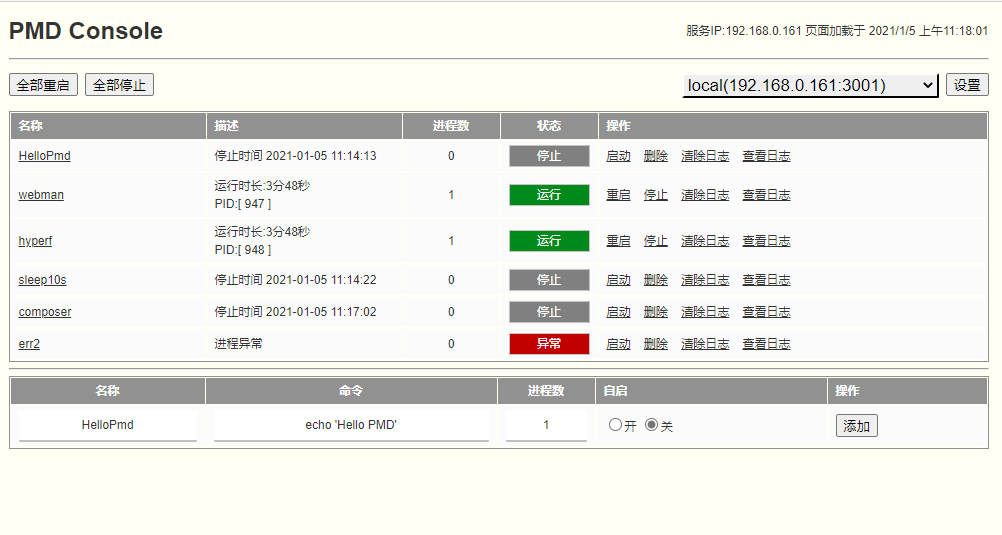
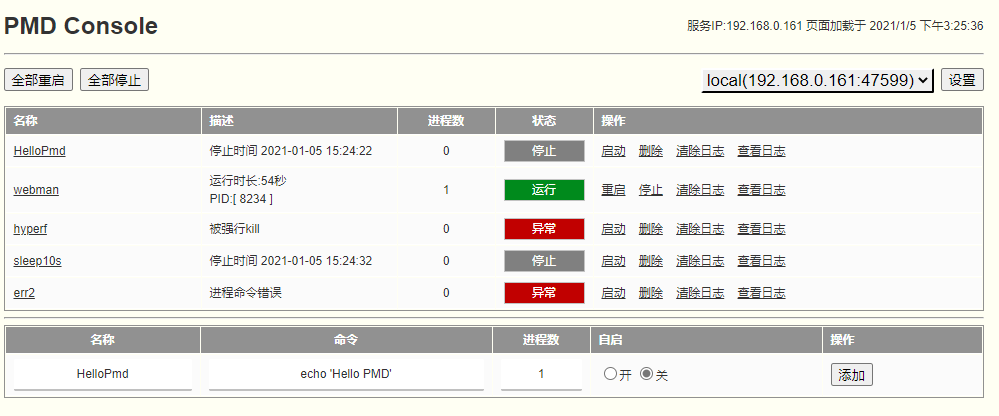
v0.0.1

diff --git a/src/Http/view/index.html b/src/Http/view/index.html
@@ -63,7 +63,7 @@
                 <td><a href="javascript:void(0);" v-bind:title="process.cmd">{{name}}</a></td>
                 <td>
                     <span v-if="process.pids.length > 0" v-bind:title="process.pids">运行时长:{{timeToString(process.runtime)}}<br/>PID:{{process.pids}}</span>
-                    <span v-else-if="process.pids.length === 0 && process.error_msg !== ''">{{process.error_msg}}</span>
+                    <span v-else-if="process.pids.length === 0 && process.error_msg != ''">{{process.error_msg}}</span>
                     <span v-else-if="process.pids.length === 0 && process.stop_time !== 0">停止时间 {{timestampToString(process.stop_time)}}</span>
                     <span v-else="process.pids.length === 0 && !process.stop_time">未曾运行</span>
                 </td>

diff --git a/src/Process/Process.php b/src/Process/Process.php
@@ -77,21 +77,23 @@ class Process extends AbstractProcess
                 $fileLogger->error($data);
             });
             $worker->on('exit', function ($exitCode) use ($fileLogger, $name, $pid) {
-                if ($exitCode == 0) {
+                if ($exitCode === 0) {
                     $fileLogger->info("{$name}[{$pid}] exitCode:{$exitCode}");
                     \logger()->info("{$name}[{$pid}] exitCode:{$exitCode}");
+                } elseif ($exitCode == '' || $exitCode == 137) {
+                    $fileLogger->info("{$name} kill exitCode:{$exitCode}");
+                    \logger()->info("{$name} kill exitCode:{$exitCode}");
+                    $this->process[$name]['error_msg'] = "被外界终止";
+                } elseif ($exitCode == 127) {
+                    $fileLogger->info("{$name} not running exitCode:{$exitCode}");
+                    \logger()->info("{$name} not running exitCode:{$exitCode}");
+                    $this->process[$name]['error_msg'] = "进程命令错误";
                 } else {
                     $fileLogger->error("{$name}[{$pid}] exitCode:{$exitCode}");
                     \logger()->error("{$name}[{$pid}] exitCode:{$exitCode}");
-                    $this->process[$name]['error_msg'] = "进程异常";
+                    $this->process[$name]['error_msg'] = "进程异常 exit code:{$exitCode}";
                 }
-                unset($this->allProcess[$pid]);
-                foreach ($this->process[$name]['pids'] as $index => $item) {
-                    if ($item == $pid) {
-                        unset($this->process[$name]['pids'][$index]);
-                        break;
-                    }
-                }
+                $this->unsetProcess($pid);
                 if (count($this->process[$name]['pids']) == 0) {
                     $this->process[$name]['pids'] = [];
                     $this->process[$name]['runtime'] = 0;
@@ -155,19 +157,27 @@ class Process extends AbstractProcess
         if (isset($this->process[$name])) {
             try {
                 if (isset($this->process[$name]['pids']) && count($this->process[$name]['pids']) > 0) {
-                    foreach ($this->process[$name]['pids'] as $pid) {
-                        /**
-                         * @var \React\ChildProcess\Process $process
-                         */
-                        $process = $this->allProcess[$pid];
-                        \loop()->addPeriodicTimer(0.5, function ($timer) use ($process) {
+                    $start_time = time();
+                    \loop()->addPeriodicTimer(0.3, function ($timer) use ($name, $start_time) {
+                        foreach ($this->process[$name]['pids'] as $index => $pid) {
+                            /**
+                             * @var \React\ChildProcess\Process $process
+                             */
+                            $process = $this->allProcess[$pid];
                             if ($process->isRunning()) {
-                                $process->terminate(SIGINT);
+                                if (time() - $start_time >= 1) {
+                                    $process->terminate(SIGTERM);
+                                } elseif (time() - $start_time >= 2) {
+                                    $process->terminate(SIGKILL);
+                                } else {
+                                    $process->terminate(SIGINT);
+                                }
                             } else {
-                                if ($process->isTerminated()) \loop()->cancelTimer($timer);
+                                $this->unsetProcess($pid);
+                                \loop()->cancelTimer($timer);
                             }
-                        });
-                    }
+                        }
+                    });
                 }
                 return ['code' => 0, 'msg' => '停止命令发送成功'];
             } catch (\Throwable $throwable) {

diff --git a/src/Pmd.php b/src/Pmd.php
@@ -11,6 +11,7 @@ use PhpPmd\Pmd\Http\Template;
 use PhpPmd\Pmd\Http\HttpServer;
 use PhpPmd\Pmd\Log\Logger;
 use PhpPmd\Pmd\Socket\SocketServer;
+use React\ChildProcess\Process;
 use React\EventLoop\Factory;
 
 /**
@@ -226,16 +227,27 @@ class Pmd
             case \SIGTERM:
             case \SIGHUP:
                 $allProcess = \socket()->getProcess()->getAllProcess();
-                foreach ($allProcess as $pid => $process) {
-                    \loop()->addPeriodicTimer(0.1, function ($timer) use ($process) {
+                $start_time = time();
+                \loop()->addPeriodicTimer(0.3, function ($timer) use ($allProcess, $start_time) {
+                    /**
+                     * @var Process $process
+                     */
+                    foreach ($allProcess as $pid => $process) {
                         if ($process->isRunning()) {
-                            $process->terminate(SIGINT);
+                            if (time() - $start_time >= 1) {
+                                $process->terminate(SIGTERM);
+                            } elseif (time() - $start_time >= 2) {
+                                $process->terminate(SIGKILL);
+                            } else {
+                                $process->terminate(SIGINT);
+                            }
                         } else {
-                            if ($process->isTerminated()) \loop()->cancelTimer($timer);
+                            \socket()->getProcess()->unsetProcess($pid);
+                            \loop()->cancelTimer($timer);
                         }
-                    });
-                }
-                \loop()->addPeriodicTimer(0.1, function ($timer) {
+                    }
+                });
+                \loop()->addPeriodicTimer(0.3, function ($timer) {
                     if (count(\socket()->getProcess()->getAllProcess()) == 0) {
                         \loop()->cancelTimer($timer);
                         \logger()->info("PMD stop success[<g>OK</g>].");
@@ -275,12 +287,11 @@ class Pmd
     {
         static::injection('socket', function () {
             $config = \configFile()->getContent();
-            if (isset($config['socket']['port'])) {
-                $socket_port = $config['socket']['port'];
-            } else {
-                $ip = static::$local_ip;
-                $socket_port = $config['http']['port'] ?? 2021;
-                $socket_port += 1;
+            $socket_port = $config['socket']['port'] ?? 0;
+            $ip = static::$local_ip;
+            $socket = new SocketServer($socket_port);
+            if ($socket_port == 0) {
+                $socket_port = $socket->getPort();
                 $config['socket'] = [
                     'name' => 'local',
                     'ip' => $ip,
@@ -291,7 +302,7 @@ class Pmd
                 $config['remote_socket']["{$ip}:{$socket_port}"] = $config['socket'];
                 \configFile()->setContent($config);
             }
-            return new SocketServer((int)$socket_port);
+            return $socket;
         });
         \socket();
     }

diff --git a/src/Socket/SocketServer.php b/src/Socket/SocketServer.php
@@ -2,6 +2,7 @@
 
 namespace PhpPmd\Pmd\Socket;
 
+use PhpPmd\Pmd\Process\AbstractProcess;
 use PhpPmd\Pmd\Process\Process;
 use PhpPmd\Pmd\Socket\Business\AuthToken;
 use PhpPmd\Pmd\Socket\Protocols\JsonNL;
@@ -11,9 +12,11 @@ use React\Socket\ConnectionInterface;
 class SocketServer extends AbstractSocket
 {
     /**
-     * @var Process $process
+     * @var AbstractProcess $process
      */
     protected $process;
+
+    protected $port;
 
     protected $connections = [];
 
@@ -24,15 +27,26 @@ class SocketServer extends AbstractSocket
         $socket->on('connection', function (ConnectionInterface $connection) {
             $this->initEvents($connection);
         });
-        \loop()->addPeriodicTimer(100, function () {
+        if ($port == 0) {
+            $address = explode(':', $socket->getAddress());
+            $this->port = $address[2];
+        } else {
+            $this->port = $port;
+        }
+        \loop()->addPeriodicTimer(10, function () {
             foreach ($this->connections as $remoteAddress => $connection) {
-                if (time() > $this->connections[$remoteAddress]['live_last_time'] + 120) {
+                if (time() > $this->connections[$remoteAddress]['live_last_time'] + 70) {
                     $connection['connection']->close();
                     unset($this->connections[$remoteAddress]);
                 }
             }
         });
-        \logger()->writeln(" TCP  server listening on port <g>{$port}</g>.");
+        \logger()->writeln(" TCP  server listening on port <g>{$this->port}</g>.");
+    }
+
+    public function getPort()
+    {
+        return $this->port;
     }
 
     private function initEvents(ConnectionInterface $connection)
@@ -69,7 +83,7 @@ class SocketServer extends AbstractSocket
     }
 
     /**
-     * @return Process
+     * @return AbstractProcess|Process
      */
     public function getProcess()
     {

diff --git a/src/Process/AbstractProcess.php b/src/Process/AbstractProcess.php
@@ -16,6 +16,19 @@ abstract class AbstractProcess implements ProcessInterface
         return $this->allProcess;
     }
 
+    public function unsetProcess($pid)
+    {
+        unset($this->allProcess[$pid]);
+        foreach ($this->process as $name => $process) {
+            $index = array_search($pid, $process['pids']);
+            if ($index !== false) {
+                unset($this->process[$name]['pids'][$index]);
+                $this->process[$name]['pids'] = array_values($this->process[$name]['pids']);
+                break;
+            }
+        }
+    }
+
     public function __construct($processConfig)
     {
         if ($processConfig && !empty($processConfig) && count($processConfig)) {
